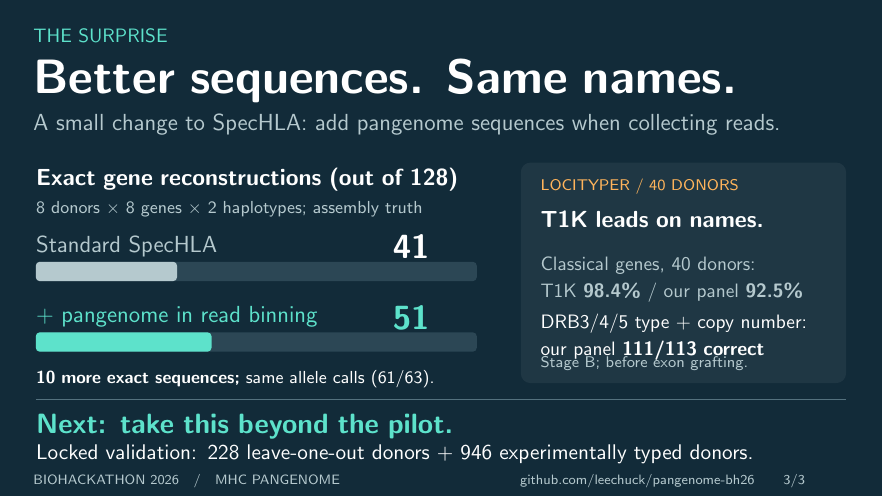
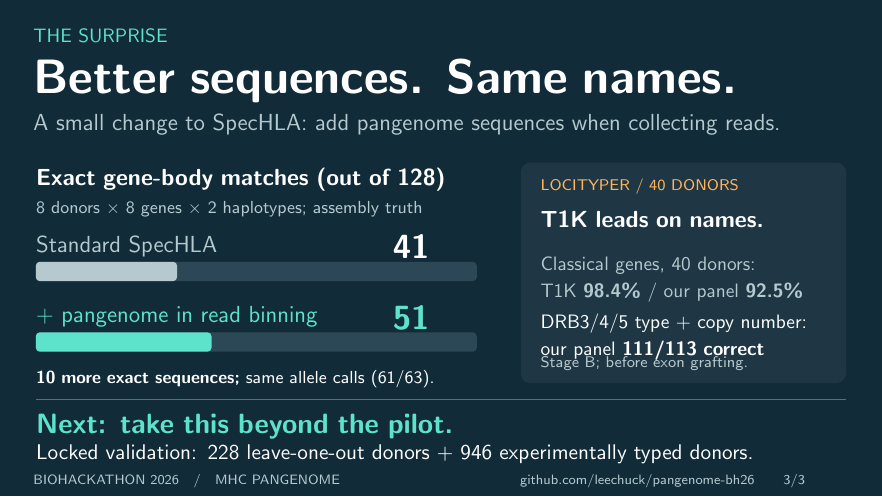
Make BioHackathon slides easy to review and edit

Changed region(s): [[0.1837, 0.332, 0.5204, 0.3924]]

diff --git a/hackathon-wrapup/slides.tex b/hackathon-wrapup/slides.tex
@@ -87,7 +87,7 @@
 \txt{0.6}{8.48}{14.8}{mint}{10}{12}{THE SURPRISE};
 \txt{0.6}{7.91}{14.8}{white}{24}{28}{\textbf{Better sequences. Same names.}};
 \txt{0.6}{6.93}{14.8}{muted}{13}{17}{A small change to SpecHLA: add pangenome sequences when collecting reads.};
-\txt{0.65}{5.96}{8.8}{white}{12}{15}{\textbf{Exact gene reconstructions (out of 128)}};
+\txt{0.65}{5.96}{8.8}{white}{12}{15}{\textbf{Exact gene-body matches (out of 128)}};
 \txt{0.65}{5.36}{8.8}{muted}{9}{12}{8 donors $\times$ 8 genes $\times$ 2 haplotypes; assembly truth};
 \txt{0.65}{4.72}{4}{muted}{12}{15}{Standard SpecHLA};
 \fill[slate!40!ink,rounded corners=2pt] (0.65,3.9) rectangle (8.65,4.25);

diff --git a/hackathon-wrapup/README.md b/hackathon-wrapup/README.md
@@ -2,6 +2,26 @@
 
 Three slides for a short spoken wrap-up: **the build → the payoff → the surprise**.
 
+## Review and edit
+
+[Open the presentation](slides.pdf) · [Edit the slide source](slides.tex) · [Edit the talk track](speaker-notes.md)
+
+The shared version is on the [`hla-experiments` branch](https://github.com/leechuck/pangenome-bh26/tree/hla-experiments/hackathon-wrapup).
+Edit `slides.tex` for slide text, layout and diagrams; edit `speaker-notes.md` for
+the spoken story. The deck is self-contained: the supporting plotting script and
+research datasets are not needed to build it. Please keep numerical changes tied
+to the evidence below and include the rebuilt PDF and previews with slide edits.
+
+With TeX Live (Beamer/TikZ) and Poppler installed, run `make -C hackathon-wrapup`.
+This rebuilds the PDF and all three previews. The PDF can also be downloaded for
+review without installing anything.
+
+![Slide 1: Whose HLA is in your reference?](render/slide-1.png)
+![Slide 2: More haplotypes. Better SV calls.](render/slide-2.png)
+![Slide 3: Better sequences. Same names.](render/slide-3.png)
+
+## Files
+
 - `slides.pdf`: presentation, 16:9, vector graphics and selectable text.
 - `slides.tex`: editable Beamer/TikZ source; numbers explicitly set from the sources below.
 - `render/slide-*.png`: slide previews.
@@ -24,4 +44,7 @@ pdftoppm -png -r 140 hackathon-wrapup/slides.pdf hackathon-wrapup/render/slide
 3. SpecHLA: `hla-spechla-pg/results/sequence_scores.tsv` and `REPORT.md`. Native vs mode A (pangenome added to read-extraction/binning database): 41 vs 51 exact sequences of 128, in eight fold-0 development donors. Native designation gives 61/63 two-field genotypes in both arms. Excluded panel donors include fold relatives. Exact sequence matching uses edlib infix alignment, with N counted as a mismatch; see report for its scope.
 4. Separate Locityper Stage B experiment: `hla-typer/results/stageB/scores.tsv`, 40 development donors. Full panel classical genes 295/319 (92.5%), DRB3/4/5 111/113 (98.2%). Corrected T1K comparison: 314/319 (98.4%), DRB3/4/5 48/113 (42.5%). T1K does not report the copy-number endpoint, so its DRB3/4/5 score is omitted from the main slide. These are Stage B scores before grafting or T1K candidate integration.
 
-The 228 leave-one-out / 946 experimentally typed donor validation is future work. Newly completed C1 jobs have not been incorporated as scored results.
+The 228 leave-one-out / 946 experimentally typed donor validation is future work.
+This deck uses the checkpoints cited above. Subsequent typing experiments are
+tracked separately in `hla-spechla-pg/IMPLEMENTATION.md` and
+`hla-typer/results/status-2026-09-18/STATUS.md`.

diff --git a/hackathon-wrapup/speaker-notes.md b/hackathon-wrapup/speaker-notes.md
@@ -22,7 +22,7 @@ If asked: PanGenie; 20 EAS and 20 SAS donors. SV-bearing means a truth allele ha
 
 ## 3 — Better sequences. Same names. (~65 seconds)
 
-“The surprise came from a small change to an existing tool. We added pangenome sequences to the database SpecHLA uses when collecting reads. Exact gene reconstructions went from 41 to 51 out of 128. The two-field allele calls stayed the same.
+“The surprise came from a small change to an existing tool. We added pangenome sequences to the database SpecHLA uses when collecting reads. Exact matches to assembled gene bodies went from 41 to 51 out of 128. The two-field allele calls stayed the same.
 
 So an allele-name benchmark can miss a useful sequence improvement. The sequence itself matters if we want to study variation beyond the familiar name.
 
@@ -30,4 +30,4 @@ In parallel, our Locityper panel experiment still trails T1K on classical allele
 
 The next step is locked validation on a much larger set. If you have independent HLA truth or want to test the workflow on another cohort, let's compare notes.”
 
-If asked: SpecHLA sequence experiment has eight development donors, eight genes and two haplotypes per gene. Exact reconstruction is the report's edlib infix comparison to assembled gene bodies; masked N bases count as mismatches. The 40-donor panel comparison is Stage B before exon grafting. T1K 314/319 vs panel 295/319 is the harmonised classical-gene denominator. T1K lacks explicit copy-number reporting, so avoid presenting the DRB3/4/5 contrast as a general typing ranking. The 228/946 validation sets remain future work; successful C1 jobs are not yet scored evidence.
+If asked: SpecHLA sequence experiment has eight development donors, eight genes and two haplotypes per gene. Exact reconstruction is the report's edlib infix comparison to assembled gene bodies; masked N bases count as mismatches. The 40-donor panel comparison is Stage B before exon grafting. T1K 314/319 vs panel 295/319 is the harmonised classical-gene denominator. T1K lacks explicit copy-number reporting, so avoid presenting the DRB3/4/5 contrast as a general typing ranking. The 228/946 validation sets remain future work; subsequent C1 results are documented separately and are not part of this slide.
